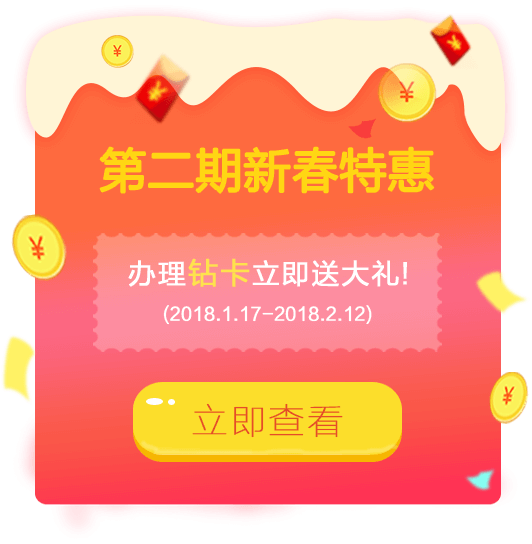
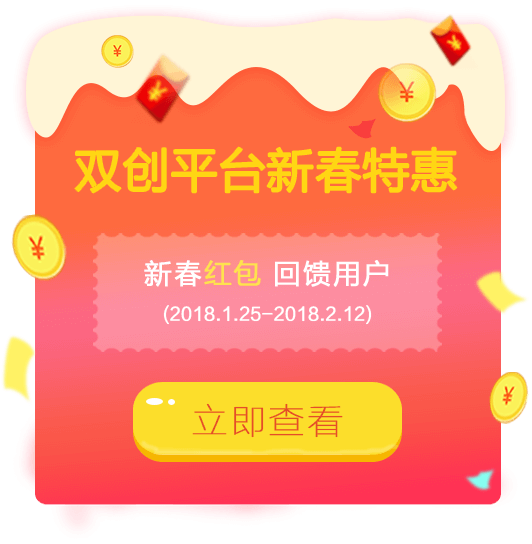
update

diff --git a/public/shopping_mall/css/newYearActive.css b/public/shopping_mall/css/newYearActive.css
@@ -20,84 +20,105 @@ input[type="button"] {
 /*-----------内容开始（放置背景图）-----------*/
 .wrapper{
 	min-height: 935px;
-	background: url(../images/newActiveBj.png) no-repeat;
+	background: url(../images/activeBg.png) no-repeat;
 	background-size: 100% 100%;
 	overflow: hidden;
 }
 /*--------活动详情--------*/
 .activeDetails{
-	height: 49px;
-	background: url(../images/active1.png) no-repeat;
-	background-size: 100% 100%;
-	font-size: 22px;
-	line-height: 49px;
-	text-align: center;
-	color: #fdeed4;
-	margin-top: 401px;
+	width: 67%;
+	min-height: 470px;
+	margin: 0 auto;
+	margin-top: 405px;
+	overflow: hidden;
 }
-.avContent{
-	width: 79.6%;
-	height: 141px;
-	background-color: #ea3c3e;
-	margin:0 auto;
-	margin-top: 23px;
-	color: #f6c39e;
-	font-size: 13px;
+.active1{
+	height: 102px;
 }
-.p1{
-	padding-top: 27px;
-	padding-left: 24px;
-	padding-right: 24px;
+.active2{
+	height: 104px;
 }
-.p2{
-	text-align: center;
-	font-size: 16px;
-	color: #fba50e;
-	padding-top: 10px;
+.active3{
+	height: 104px;
 }
-.times{
-	text-align: center;
-	padding-top: 9px;
-	font-size: 12px;
-}
-/*--------活动说明------------*/
-.activeDescription{
-	height: 49px;
-	background: url(../images/description.png) no-repeat;
-	background-size: 100% 100%;
-	font-size: 22px;
-	line-height: 49px;
-	text-align: center;
-	color: #fdeed4;
+.activeName{
+	width: 22%;
+	float: left;
 	margin-top: 27px;
 }
-.description{
-	width: 79.6%;
-	min-height: 175px;
-	background-color: #ea3c3e;
-	margin:0 auto;
-	margin-top: 20px;
-	color: #f6c39e;
-	
-	
+.scoll{
+	width: 20px;
+	height: 44px;
+	background-color: #e90000;
+	text-align: center;
+	padding-top: 5px;
+	color: #ffffff;
+	font-size: 14px;
+	border-radius: 3px;
+	margin-left: 26px;
 }
-.destents{
-	padding-top: 18px;
-	color: #fba50e;
-	padding-left: 28px;
-	padding-right: 24px;
-	
+.activeContents{
+	width: 65%;
+	float: left;
+	text-align: center;
+	font-size: 13px;
+	padding-top: 38px;
 }
-.explation{
-	padding-left: 28px;
-	padding-top: 11px;
+.scoll2{
+	width: 20px;
+	height: 63px;
+	background-color: #e90000;
+	text-align: center;
+	padding-top: 5px;
+	color: #ffffff;
+	font-size: 14px;
+	border-radius: 3px;
+	margin-left: 26px;
+}
+.activeContents2{
+	height: 104px;
+	float: left;
+	text-align: center;
+	font-size: 13px;
+	line-height: 118px;
+	width: 65%;
+}
+.scoll3{
+	width: 20px;
+	height: 44px;
+	background-color: #e90000;
+	text-align: center;
+	padding-top: 5px;
+	color: #ffffff;
+	font-size: 14px;
+	border-radius: 3px;
+	margin-left: 26px;
+	margin-top: 5px;
+}
+.activeContents3{
+	float: left;
+	text-align: center;
+	font-size: 13px;
+	line-height: 110px;
+	width: 65%;
+}
+.activeMess{
+	clear: both;
+	text-align: center;
+	color: #d03127;
+	padding-top: 15px;
+}
+.tishi{
+	width: 82%;
+	margin: 0 auto;
+	margin-top: 35px;
 	font-size: 12px;
-	padding-right: 24px;
+	color: #873904;
 }
-.interpret{
+.times{
 	float: right;
-	padding-right: 18px;
 	font-size: 12px;
-	padding-top: 8px;
-	padding-bottom: 22px;
+	padding-right: 29px;
+	padding-top: 10px;
 }
+

diff --git a/public/shopping_mall/newYearActive.php b/public/shopping_mall/newYearActive.php
@@ -12,19 +12,22 @@
 	<body>
 		<!--------放置背景图-->
 		<div class="wrapper">
-			<!--活动详情-->
-			<div class="activeDetails">活动详情</div>
-			<div class="avContent">
-				<p class="p1">即日起凡订购钻卡的用户，均享受 以下优惠,多买多送!</p>
-				<p class="p2">一张钻卡赠送两张银卡</p>
-				<p class="times">(活动时间：2018年1月17日-2018年2月12日)</p>
-			</div>
-			<!--活动说明-->
-			<div class="activeDescription">活动说明</div>
-			<div class="description">
-				<p class="destents">原：一张钻卡享受26张银卡返利 <br />现：一张钻卡+赠送两张银卡享受28张银卡的返利；</p>
-				<p class="explation">凡订购赠送的银卡只享受平台的返利，不能订购平台商品。不可与平台其他优惠活动同时享受。</p>
-				<p class="interpret">最终解释权归双创共享平台</p>
+			<div class="activeDetails">
+				<div class="active1">
+					<div class="activeName"><p class="scoll">钻卡</p></div>
+					<div class="activeContents">赠送红包2000元，并赠送银卡一张</div>
+				</div>
+				<div class="active2">
+					<div class="activeName"><p class="scoll2">白金卡</p></div>
+					<div class="activeContents2">赠送红包780元</div>
+				</div>
+				<div class="active3">
+					<div class="activeName"><p class="scoll3">金卡</p></div>
+					<div class="activeContents3">赠送红包388元</div>
+				</div>
+				<div class="activeMess">一次性办三张银卡，送88元现金</div>
+				<div class="tishi">特别提醒：2018年1月1日-1月24日（含24日）之前订钻卡的会员，在原促销活动（赠送两张银卡）的基础上，在给788元,以现金方式直接发给会员。</div>
+				<div class="times">活动时间:1月25日-2月12日</div>
 			</div>
 		</div>
 	</body>
